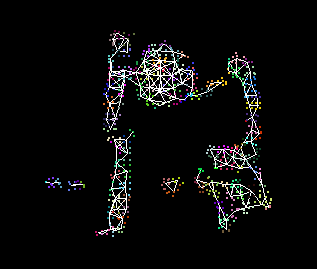
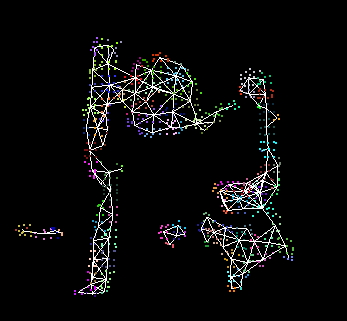
testing with OSD Dataset

Changed region(s): [[0.1987, 0.119, 0.8517, 0.9219], [0.0284, 0.6543, 0.1987, 0.7435]]

diff --git a/customAlignment/customSegmentation.cpp b/customAlignment/customSegmentation.cpp
@@ -28,6 +28,7 @@
 #include <pcl/filters/voxel_grid.h>
 #include <pcl/filters/extract_indices.h>
 #include <pcl/filters/crop_hull.h>
+#include <pcl/filters/passthrough.h>
 
 #include <pcl/segmentation/region_growing.h>
 #include <pcl/segmentation/region_growing_rgb.h>
@@ -68,12 +69,14 @@ double SUPERVOXEL_SEED_RESOLUTION = 0.015;
 double SUPERVOXEL_COLOR_IMPORTANCE = 0.1;
 double SUPERVOXEL_SPATIAL_IMPORTANCE = 0.1;
 double SUPERVOXEL_NORMAL_IMPORTANCE = 1.0;
+bool SUPERVOXEL_REFINE = false;
+int SUPERVOXEL_REFINE_ITERATIONS = 1;
 
 double MEAN_SHIFT_ALPHA = 10.0;
-int MEAN_SHIFT_ITERATIONS = 10;
+int MEAN_SHIFT_ITERATIONS = 2;
 
 double KMEANS_EIGENVALUE_THRESHOLD = 0.01;
-int KMEANS_NUMBER_OF_CLUSTERS = 10;
+int KMEANS_NUMBER_OF_CLUSTERS = 13;
 
 
 
@@ -134,7 +137,7 @@ pcl::PointCloud<PointT>::Ptr downsample(pcl::PointCloud<PointT>::Ptr cloud, doub
 }
 
 
-pcl::PointCloud<PointT>::Ptr extractPlane(pcl::PointCloud<PointT>::Ptr cloud){
+pcl::PointCloud<PointT>::Ptr extractPlane(pcl::PointCloud<PointT>::Ptr cloud, bool removePlane){
 
     pcl::PointCloud<PointT>::Ptr returned_cloud(new pcl::PointCloud<PointT>);
 
@@ -151,6 +154,7 @@ pcl::PointCloud<PointT>::Ptr extractPlane(pcl::PointCloud<PointT>::Ptr cloud){
     segmentation.segment(*inlierIndices, *coefficients);
 
     pcl::ExtractIndices<PointT> extract;
+    extract.setNegative(removePlane);
     extract.setInputCloud(cloud);
     extract.setIndices(inlierIndices);
     extract.filter (*returned_cloud);
@@ -173,7 +177,7 @@ pcl::PointCloud<PointT>::Ptr getCentroid(pcl::PointCloud<PointT>::Ptr cloud){
 
 pcl::PointCloud<PointT>::Ptr getCentroid2D(pcl::PointCloud<PointT>::Ptr cloud){
 
-    pcl::PointCloud<PointT>::Ptr bottom_plane = extractPlane(cloud);
+    pcl::PointCloud<PointT>::Ptr bottom_plane = extractPlane(cloud,false);
 
     pcl::PointCloud<PointT>::Ptr centroid_cloud (new pcl::PointCloud<PointT>);
     Eigen::Vector4f c;
@@ -559,11 +563,12 @@ void addNeighbors(std::map<int, std::vector<int> > *adjacency,
 
             // Check if the point has already been processed to avoid being stuck in infinite loop
             if (std::find(processed_indices->begin(), processed_indices->end(), neighbor_index) == processed_indices->end()){
-                processed_indices->push_back(neighbor_index);
+
 
                 pcl::PointNormal n_2 = supervoxel_normals->at(neighbor_index);
                 double similarity = cosine_similarity(&n_1, &n_2);
                 if(similarity >= FACETS_SIMILARITY_THRESHOLD){
+                    processed_indices->push_back(neighbor_index);
 
                     // Check if the index is already present in the vector
                     std::vector<int> indices = new_clusters->at(cluster_index);
@@ -678,7 +683,7 @@ void superVoxels_clustering(pcl::PointCloud<pcl::PointXYZRGBA>::Ptr cloud){
 
     pcl::ScopeTime t("Segmentation in Supervoxels");
 
-    bool use_transform = true;
+    bool use_transform = false;
 
     /// Supervoxel Clustering
     pcl::SupervoxelClustering<PointT> super (SUPERVOXEL_VOXEL_RESOLUTION, SUPERVOXEL_SEED_RESOLUTION, use_transform);
@@ -689,6 +694,8 @@ void superVoxels_clustering(pcl::PointCloud<pcl::PointXYZRGBA>::Ptr cloud){
 
     std::map <uint32_t, pcl::Supervoxel<PointT>::Ptr > supervoxel_clusters;
     super.extract (supervoxel_clusters);
+
+    if(SUPERVOXEL_REFINE) super.refineSupervoxels(SUPERVOXEL_REFINE_ITERATIONS, supervoxel_clusters);
     //super.refineSupervoxels(3, supervoxel_clusters);
     pcl::console::print_info ("Found %d supervoxels\n", supervoxel_clusters.size ());
 
@@ -988,7 +995,7 @@ void spectralClustering(std::map<int, pcl::Supervoxel<pcl::PointXYZRGBA>::Ptr> *
             double opt2 = v2.normal_x * (c2.x - c1.x) + v2.normal_y * (c2.y - c1.y) + v2.normal_z * (c2.z - c1.z);
 
             double max = std::max(opt1, opt2);
-            if(max < 0) max = 0;
+            if(isnan(max) || max < 0) max = 0;
 
             W(i, j) = max;
 
@@ -1012,6 +1019,9 @@ void spectralClustering(std::map<int, pcl::Supervoxel<pcl::PointXYZRGBA>::Ptr> *
 
     cout << "Degree Matrix" << endl;
     cout << D << endl;
+
+    cout << "Adjacency (weight) Matrix" << endl;
+    cout << W << endl;
 
 //    cout << "Degree Matrix root" << endl;
 //    cout << D_root  << endl;
@@ -1363,10 +1373,31 @@ int main (int argc, char** argv){
     pcl::PointCloud<PointT>::Ptr scene_cloud(new pcl::PointCloud<PointT>);
     pcl::PointCloud<PointT>::Ptr model_cloud(new pcl::PointCloud<PointT>);
 
-    pcl::io::loadPCDFile("../bmw_clutter_remaining.pcd", *scene_cloud);
+//    pcl::io::loadPCDFile("../bmw_clutter_remaining.pcd", *scene_cloud);
+    pcl::io::loadPCDFile("/home/jp/Downloads/OSD-0.2/pcd/test55.pcd", *scene_cloud);
+
     //    pcl::io::loadPCDFile("../customAlignment_fine.pcd", *model_cloud);
 
     initPCLViewer();
+
+
+
+    /// Filter points in X-Y-Z and remove the plane if using the OSD Dataset
+    pcl::PointCloud<PointT>::Ptr temp_cloud(new pcl::PointCloud<PointT>);
+
+    pcl::PassThrough<PointT> pass_filter;
+    pass_filter.setFilterFieldName("z");
+    pass_filter.setFilterLimits(0, 1.3);
+    pass_filter.setInputCloud(scene_cloud);
+    pass_filter.filter(*temp_cloud);
+
+
+    scene_cloud = extractPlane(temp_cloud, true);
+
+    pclViewer->addPointCloud (scene_cloud, ColorHandlerT(scene_cloud, 255.0, 255.0, 0.0), "scene");
+    pclViewer->setPointCloudRenderingProperties (pcl::visualization::PCL_VISUALIZER_POINT_SIZE, 1, "scene");
+
+
 
     //    pcl::PointCloud<PointT>::Ptr scene_segmented(new pcl::PointCloud<PointT>);
     //    scene_segmented = cropAndSegmentScene(scene_cloud, model_cloud);

diff --git a/customAlignment/segmentationAbdeslam.cpp b/customAlignment/segmentationAbdeslam.cpp
@@ -28,6 +28,7 @@
 #include <pcl/filters/voxel_grid.h>
 #include <pcl/filters/extract_indices.h>
 #include <pcl/filters/crop_hull.h>
+#include <pcl/filters/passthrough.h>
 
 #include <pcl/segmentation/region_growing.h>
 #include <pcl/segmentation/region_growing_rgb.h>
@@ -68,12 +69,14 @@ double SUPERVOXEL_SEED_RESOLUTION = 0.015;
 double SUPERVOXEL_COLOR_IMPORTANCE = 0.1;
 double SUPERVOXEL_SPATIAL_IMPORTANCE = 0.1;
 double SUPERVOXEL_NORMAL_IMPORTANCE = 1.0;
+bool SUPERVOXEL_REFINE = false;
+int SUPERVOXEL_REFINE_ITERATIONS = 1;
 
 double MEAN_SHIFT_ALPHA = 10.0;
-int MEAN_SHIFT_ITERATIONS = 10;
+int MEAN_SHIFT_ITERATIONS = 2;
 
 double KMEANS_EIGENVALUE_THRESHOLD = 0.01;
-int KMEANS_NUMBER_OF_CLUSTERS = 10;
+int KMEANS_NUMBER_OF_CLUSTERS = 13;
 
 
 
@@ -134,7 +137,7 @@ pcl::PointCloud<PointT>::Ptr downsample(pcl::PointCloud<PointT>::Ptr cloud, doub
 }
 
 
-pcl::PointCloud<PointT>::Ptr extractPlane(pcl::PointCloud<PointT>::Ptr cloud){
+pcl::PointCloud<PointT>::Ptr extractPlane(pcl::PointCloud<PointT>::Ptr cloud, bool removePlane){
 
     pcl::PointCloud<PointT>::Ptr returned_cloud(new pcl::PointCloud<PointT>);
 
@@ -151,6 +154,7 @@ pcl::PointCloud<PointT>::Ptr extractPlane(pcl::PointCloud<PointT>::Ptr cloud){
     segmentation.segment(*inlierIndices, *coefficients);
 
     pcl::ExtractIndices<PointT> extract;
+    extract.setNegative(removePlane);
     extract.setInputCloud(cloud);
     extract.setIndices(inlierIndices);
     extract.filter (*returned_cloud);
@@ -173,7 +177,7 @@ pcl::PointCloud<PointT>::Ptr getCentroid(pcl::PointCloud<PointT>::Ptr cloud){
 
 pcl::PointCloud<PointT>::Ptr getCentroid2D(pcl::PointCloud<PointT>::Ptr cloud){
 
-    pcl::PointCloud<PointT>::Ptr bottom_plane = extractPlane(cloud);
+    pcl::PointCloud<PointT>::Ptr bottom_plane = extractPlane(cloud,false);
 
     pcl::PointCloud<PointT>::Ptr centroid_cloud (new pcl::PointCloud<PointT>);
     Eigen::Vector4f c;
@@ -559,11 +563,12 @@ void addNeighbors(std::map<int, std::vector<int> > *adjacency,
 
             // Check if the point has already been processed to avoid being stuck in infinite loop
             if (std::find(processed_indices->begin(), processed_indices->end(), neighbor_index) == processed_indices->end()){
-                processed_indices->push_back(neighbor_index);
+
 
                 pcl::PointNormal n_2 = supervoxel_normals->at(neighbor_index);
                 double similarity = cosine_similarity(&n_1, &n_2);
                 if(similarity >= FACETS_SIMILARITY_THRESHOLD){
+                    processed_indices->push_back(neighbor_index);
 
                     // Check if the index is already present in the vector
                     std::vector<int> indices = new_clusters->at(cluster_index);
@@ -678,7 +683,7 @@ void superVoxels_clustering(pcl::PointCloud<pcl::PointXYZRGBA>::Ptr cloud){
 
     pcl::ScopeTime t("Segmentation in Supervoxels");
 
-    bool use_transform = true;
+    bool use_transform = false;
 
     /// Supervoxel Clustering
     pcl::SupervoxelClustering<PointT> super (SUPERVOXEL_VOXEL_RESOLUTION, SUPERVOXEL_SEED_RESOLUTION, use_transform);
@@ -689,6 +694,8 @@ void superVoxels_clustering(pcl::PointCloud<pcl::PointXYZRGBA>::Ptr cloud){
 
     std::map <uint32_t, pcl::Supervoxel<PointT>::Ptr > supervoxel_clusters;
     super.extract (supervoxel_clusters);
+
+    if(SUPERVOXEL_REFINE) super.refineSupervoxels(SUPERVOXEL_REFINE_ITERATIONS, supervoxel_clusters);
     //super.refineSupervoxels(3, supervoxel_clusters);
     pcl::console::print_info ("Found %d supervoxels\n", supervoxel_clusters.size ());
 
@@ -988,7 +995,7 @@ void spectralClustering(std::map<int, pcl::Supervoxel<pcl::PointXYZRGBA>::Ptr> *
             double opt2 = v2.normal_x * (c2.x - c1.x) + v2.normal_y * (c2.y - c1.y) + v2.normal_z * (c2.z - c1.z);
 
             double max = std::max(opt1, opt2);
-            if(max < 0) max = 0;
+            if(isnan(max) || max < 0) max = 0;
 
             W(i, j) = max;
 
@@ -1012,6 +1019,9 @@ void spectralClustering(std::map<int, pcl::Supervoxel<pcl::PointXYZRGBA>::Ptr> *
 
     cout << "Degree Matrix" << endl;
     cout << D << endl;
+
+    cout << "Adjacency (weight) Matrix" << endl;
+    cout << W << endl;
 
 //    cout << "Degree Matrix root" << endl;
 //    cout << D_root  << endl;
@@ -1363,10 +1373,31 @@ int main (int argc, char** argv){
     pcl::PointCloud<PointT>::Ptr scene_cloud(new pcl::PointCloud<PointT>);
     pcl::PointCloud<PointT>::Ptr model_cloud(new pcl::PointCloud<PointT>);
 
-    pcl::io::loadPCDFile("../bmw_clutter_remaining.pcd", *scene_cloud);
+//    pcl::io::loadPCDFile("../bmw_clutter_remaining.pcd", *scene_cloud);
+    pcl::io::loadPCDFile("/home/jp/Downloads/OSD-0.2/pcd/test55.pcd", *scene_cloud);
+
     //    pcl::io::loadPCDFile("../customAlignment_fine.pcd", *model_cloud);
 
     initPCLViewer();
+
+
+
+    /// Filter points in X-Y-Z and remove the plane if using the OSD Dataset
+    pcl::PointCloud<PointT>::Ptr temp_cloud(new pcl::PointCloud<PointT>);
+
+    pcl::PassThrough<PointT> pass_filter;
+    pass_filter.setFilterFieldName("z");
+    pass_filter.setFilterLimits(0, 1.3);
+    pass_filter.setInputCloud(scene_cloud);
+    pass_filter.filter(*temp_cloud);
+
+
+    scene_cloud = extractPlane(temp_cloud, true);
+
+    pclViewer->addPointCloud (scene_cloud, ColorHandlerT(scene_cloud, 255.0, 255.0, 0.0), "scene");
+    pclViewer->setPointCloudRenderingProperties (pcl::visualization::PCL_VISUALIZER_POINT_SIZE, 1, "scene");
+
+
 
     //    pcl::PointCloud<PointT>::Ptr scene_segmented(new pcl::PointCloud<PointT>);
     //    scene_segmented = cropAndSegmentScene(scene_cloud, model_cloud);
